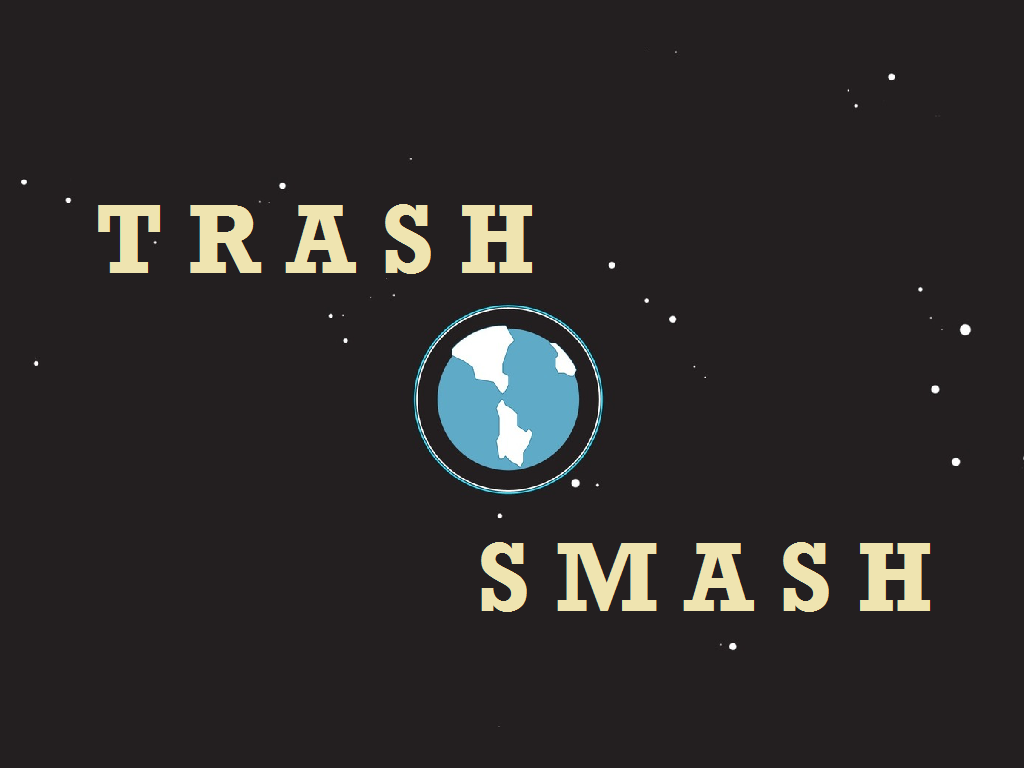
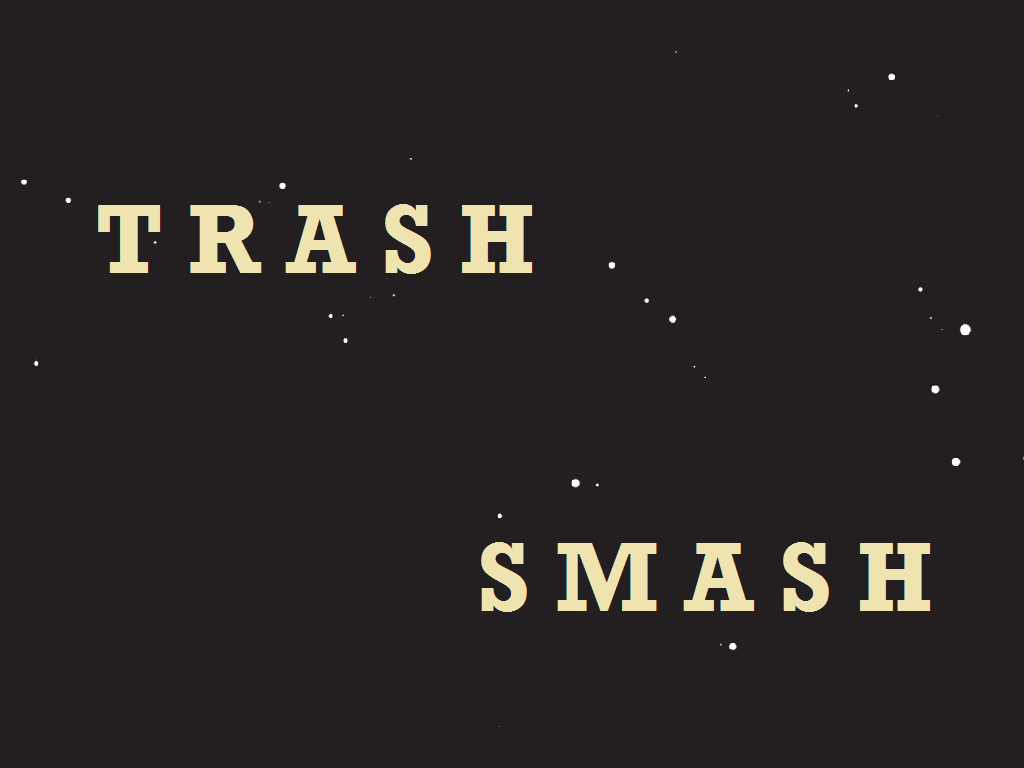
MENU IS DONE BOYS

Changed region(s): [[0.4062, 0.375, 0.5938, 0.6562]]

diff --git a/TrashSmash/src/main/GraphicsMain.java b/TrashSmash/src/main/GraphicsMain.java
@@ -10,6 +10,8 @@ import java.io.File;
 import java.io.IOException;
 
 import javax.imageio.ImageIO;
+import javax.swing.Box;
+import javax.swing.BoxLayout;
 import javax.swing.Icon;
 import javax.swing.ImageIcon;
 import javax.swing.JButton;
@@ -97,6 +99,8 @@ public class GraphicsMain {
 		//GridBagLayout grid = new GridBagLayout();
 		JPanel contentPane = new JPanel();
 		JPanel controlPane = new JPanel();
+		JPanel animatePane = new JPanel();
+		JPanel buttonsPane = new JPanel();
 		//window.setContentPane(contentPane);		
 		contentPane.setLayout(new OverlayLayout(contentPane));
 		GridBagConstraints c = new GridBagConstraints();
@@ -107,31 +111,27 @@ public class GraphicsMain {
 		
 		JButton startButton = new JButton();
 		JButton quitButton = new JButton();
-		
 		startButton.setIcon(sbutton);
 		quitButton.setIcon(qbutton);
 		startButton.setBorder(null);
-		quitButton.setBorder(null);
-		startButton.setLocation(650, 100);
-		quitButton.setLocation(650, 100);
-		//c.anchor = GridBagConstraints.LINE_START;
-		//c.gridx = 2;
-		//c.gridy = 1;
-		
-		startButton.setLocation(400, 500);
-		quitButton.setLocation(500, 600);
-		
+		quitButton.setBorder(null);		
 		startButton.addActionListener(l);
 		startButton.setActionCommand("start");
+		controlPane.setLayout(new BoxLayout(controlPane, BoxLayout.Y_AXIS));
+		buttonsPane.setLayout(new BoxLayout(buttonsPane, BoxLayout.X_AXIS));
+		controlPane.add(Box.createRigidArea(new Dimension(20, 80)));
 		controlPane.add(startButton);
+		controlPane.add(Box.createRigidArea(new Dimension(0, 40)));
 		controlPane.add(quitButton);
-		controlPane.add(label);
+		buttonsPane.add(controlPane);
+		buttonsPane.add(Box.createRigidArea(new Dimension(670, 0)));
+		animatePane.add(label);
 		controlPane.setOpaque(false);
-		contentPane.add(controlPane);
-		//c.anchor = GridBagConstraints.CENTER;
-		//c.gridx = 2;
-		//c.gridy = 3;
-		
+		animatePane.setOpaque(false);
+		buttonsPane.setOpaque(false);
+		animatePane.add(Box.createRigidArea(new Dimension(0,800)));
+		contentPane.add(buttonsPane);
+		contentPane.add(animatePane);
 		quitButton.addActionListener(l);
 		quitButton.setActionCommand("quit");
 		
